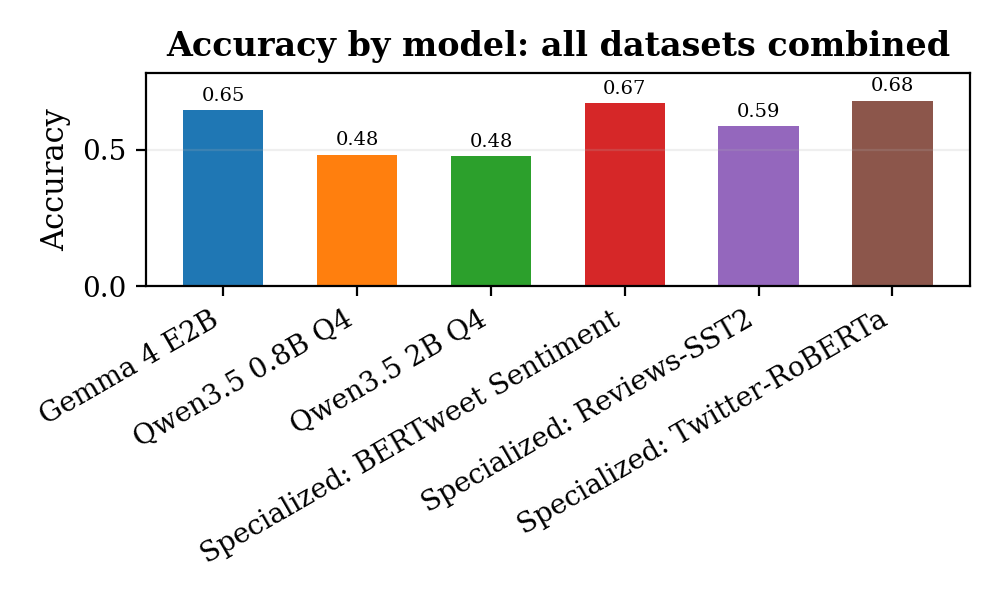
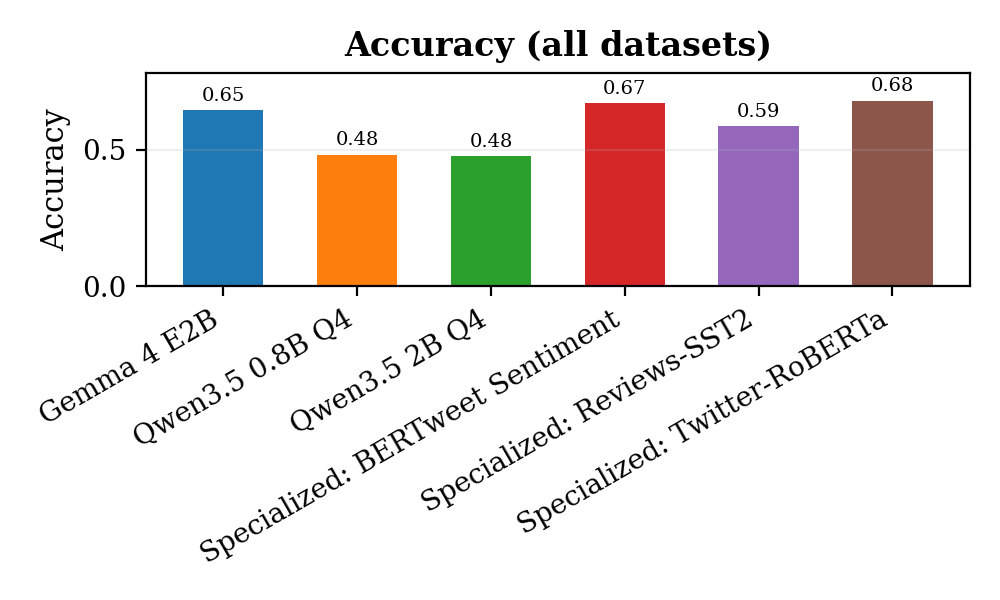
stuff

Changed region(s): [[0.155, 0.03, 0.961, 0.12]]

diff --git a/report_tex/lastname_firstname_title.tex b/report_tex/lastname_firstname_title.tex
@@ -52,7 +52,7 @@ Detailed description of the research design, data collection, and analysis metho
 \section{Results}
 Presentation of the findings, including tables, figures, and statistical analyses.
 
-\subsection{Instagram Comments (test) - 56 samples}
+\subsection{Instagram - 56 samples}
 
 \begin{table}[H]
 \centering
@@ -68,7 +68,7 @@ Reviews-SST2 & 46.43\% & 0.0035 \\
 Twitter-RoBERTa & 60.71\% & 0.0062 \\
 \bottomrule
 \end{tabular}
-\caption{Benchmark results for Instagram Comments (test). Accuracy represents the maximum accuracy achieved across multiple runs; latency is the average inference time per sample.}
+\caption{Benchmark results for Instagram dataset (56 samples).}
 \label{tab:benchmark-results-instagram}
 \end{table}
 
@@ -77,11 +77,20 @@ Twitter-RoBERTa & 60.71\% & 0.0062 \\
 \begin{figure}[H]
 \centering
 \includegraphics[width=0.85\linewidth]{report_charts/report_accuracy_instagram_comments_test.png}
-\caption{Accuracy chart for Instagram Comments (test).}
+\caption{Accuracy by model for Instagram.}
 \label{fig:accuracy-instagram}
 \end{figure}
 
-\subsection{Kaggle Reviews (dolbokostya) - 2000 samples}
+\medskip
+
+\begin{figure}[H]
+\centering
+includegraphics[width=0.85\linewidth]{report_charts/report_compute_cost_instagram_comments_test.png}
+caption{Latency by model for Instagram.}
+\label{fig:latency-instagram}
+\end{figure}
+
+\subsection{Kaggle Reviews - 2000 samples}
 
 \begin{table}[H]
 \centering
@@ -97,7 +106,7 @@ Reviews-SST2 & 68.00\% & 0.0031 \\
 Twitter-RoBERTa & 65.00\% & 0.0060 \\
 \bottomrule
 \end{tabular}
-\caption{Benchmark results for Kaggle Reviews (dolbokostya). Accuracy represents the maximum accuracy achieved across multiple runs; latency is the average inference time per sample.}
+\caption{Benchmark results for Kaggle Reviews dataset (2000 samples).}
 \label{tab:benchmark-results-kaggle-reviews}
 \end{table}
 
@@ -105,12 +114,21 @@ Twitter-RoBERTa & 65.00\% & 0.0060 \\
 
 \begin{figure}[H]
 \centering
-\includegraphics[width=0.85\linewidth]{report_charts/report_accuracy_kaggle_reviews_dolbokostya_subset.png}
-\caption{Accuracy chart for Kaggle Reviews (dolbokostya).}
+includegraphics[width=0.85\linewidth]{report_charts/report_accuracy_kaggle_reviews_dolbokostya_subset.png}
+caption{Accuracy by model for Kaggle Reviews.}
 \label{fig:accuracy-kaggle-reviews}
 \end{figure}
 
-\subsection{Kaggle Sentiment Analysis (mdismielhossenabir) - 499 samples}
+\medskip
+
+\begin{figure}[H]
+\centering
+includegraphics[width=0.85\linewidth]{report_charts/report_compute_cost_kaggle_reviews_dolbokostya_subset.png}
+caption{Latency by model for Kaggle Reviews.}
+\label{fig:latency-kaggle-reviews}
+\end{figure}
+
+\subsection{Mixed Domain - 499 samples}
 
 \begin{table}[H]
 \centering
@@ -126,7 +144,7 @@ Reviews-SST2 & 50.70\% & 0.0033 \\
 Twitter-RoBERTa & 71.94\% & 0.0061 \\
 \bottomrule
 \end{tabular}
-\caption{Benchmark results for Kaggle Sentiment Analysis (mdismielhossenabir). Accuracy represents the maximum accuracy achieved across multiple runs; latency is the average inference time per sample.}
+caption{Benchmark results for Kaggle Sentiment dataset (499 samples).}
 \label{tab:benchmark-results-kaggle-sentiment}
 \end{table}
 
@@ -135,8 +153,17 @@ Twitter-RoBERTa & 71.94\% & 0.0061 \\
 \begin{figure}[H]
 \centering
 \includegraphics[width=0.85\linewidth]{report_charts/report_accuracy_kaggle_sentiment_analysis_mdismielhossenabir.png}
-\caption{Accuracy chart for Kaggle Sentiment Analysis (mdismielhossenabir).}
+caption{Accuracy by model for Kaggle Sentiment.}
 \label{fig:accuracy-kaggle-sentiment}
+\end{figure}
+
+\medskip
+
+\begin{figure}[H]
+\centering
+\includegraphics[width=0.85\linewidth]{report_charts/report_compute_cost_kaggle_sentiment_analysis_mdismielhossenabir.png}
+caption{Latency by model for Kaggle Sentiment.}
+\label{fig:latency-kaggle-sentiment}
 \end{figure}
 
 \section{Discussion}

diff --git a/pipelines/report_charts.py b/pipelines/report_charts.py
@@ -180,6 +180,12 @@ MODEL_COLORS = {
     "Specialized: Twitter-RoBERTa": "#8c564b",
 }
 
+DATASET_ALIASES = {
+    "Instagram Comments (test)": "Instagram",
+    "Kaggle Reviews (dolbokostya subset)": "Reviews",
+    "Kaggle Sentiment Analysis (mdismielhossenabir)": "Mixed Domain",
+}
+
 
 def _plot_bar(
     values: dict[str, float], title: str, y_label: str, output_path: Path
@@ -276,39 +282,40 @@ def generate_report_charts(
 
         for dataset_name, rows in grouped.items():
             slug = _slugify(dataset_name)
+            alias = DATASET_ALIASES.get(dataset_name, dataset_name)
             _plot_bar(
                 values=_dataset_accuracy(rows),
-                title=f"Accuracy by model: {dataset_name}",
+                title=f"Accuracy ({alias})",
                 y_label="Accuracy",
                 output_path=output_dir / f"report_accuracy_{slug}.png",
             )
             _plot_bar(
                 values=_dataset_latency(rows),
-                title=f"Compute cost (avg latency) by model: {dataset_name}",
-                y_label="Average latency per item (seconds)",
+                title=f"Latency ({alias})",
+                y_label="Latency (seconds)",
                 output_path=output_dir / f"report_compute_cost_{slug}.png",
             )
             _plot_grid(
                 matrix_rows=_dataset_grid_values(conn, rows, models),
-                title=f"Per-prompt correctness grid: {dataset_name}",
+                title=f"Correctness grid ({alias})",
                 output_path=output_dir / f"report_grid_{slug}.png",
             )
 
         _plot_bar(
             values=_combined_accuracy(conn, run_ids),
-            title="Accuracy by model: all datasets combined",
+            title="Accuracy (all datasets)",
             y_label="Accuracy",
             output_path=output_dir / "report_accuracy_all_datasets.png",
         )
         _plot_bar(
             values=_combined_latency(conn, run_ids),
-            title="Compute cost (avg latency) by model: all datasets combined",
-            y_label="Average latency per item (seconds)",
+            title="Latency (all datasets)",
+            y_label="Latency (seconds)",
             output_path=output_dir / "report_compute_cost_all_datasets.png",
         )
         _plot_grid(
             matrix_rows=_combined_grid_values(conn, selected, models),
-            title="Per-prompt correctness grid: all datasets combined",
+            title="Correctness grid (all datasets)",
             output_path=output_dir / "report_grid_all_datasets.png",
         )
 
